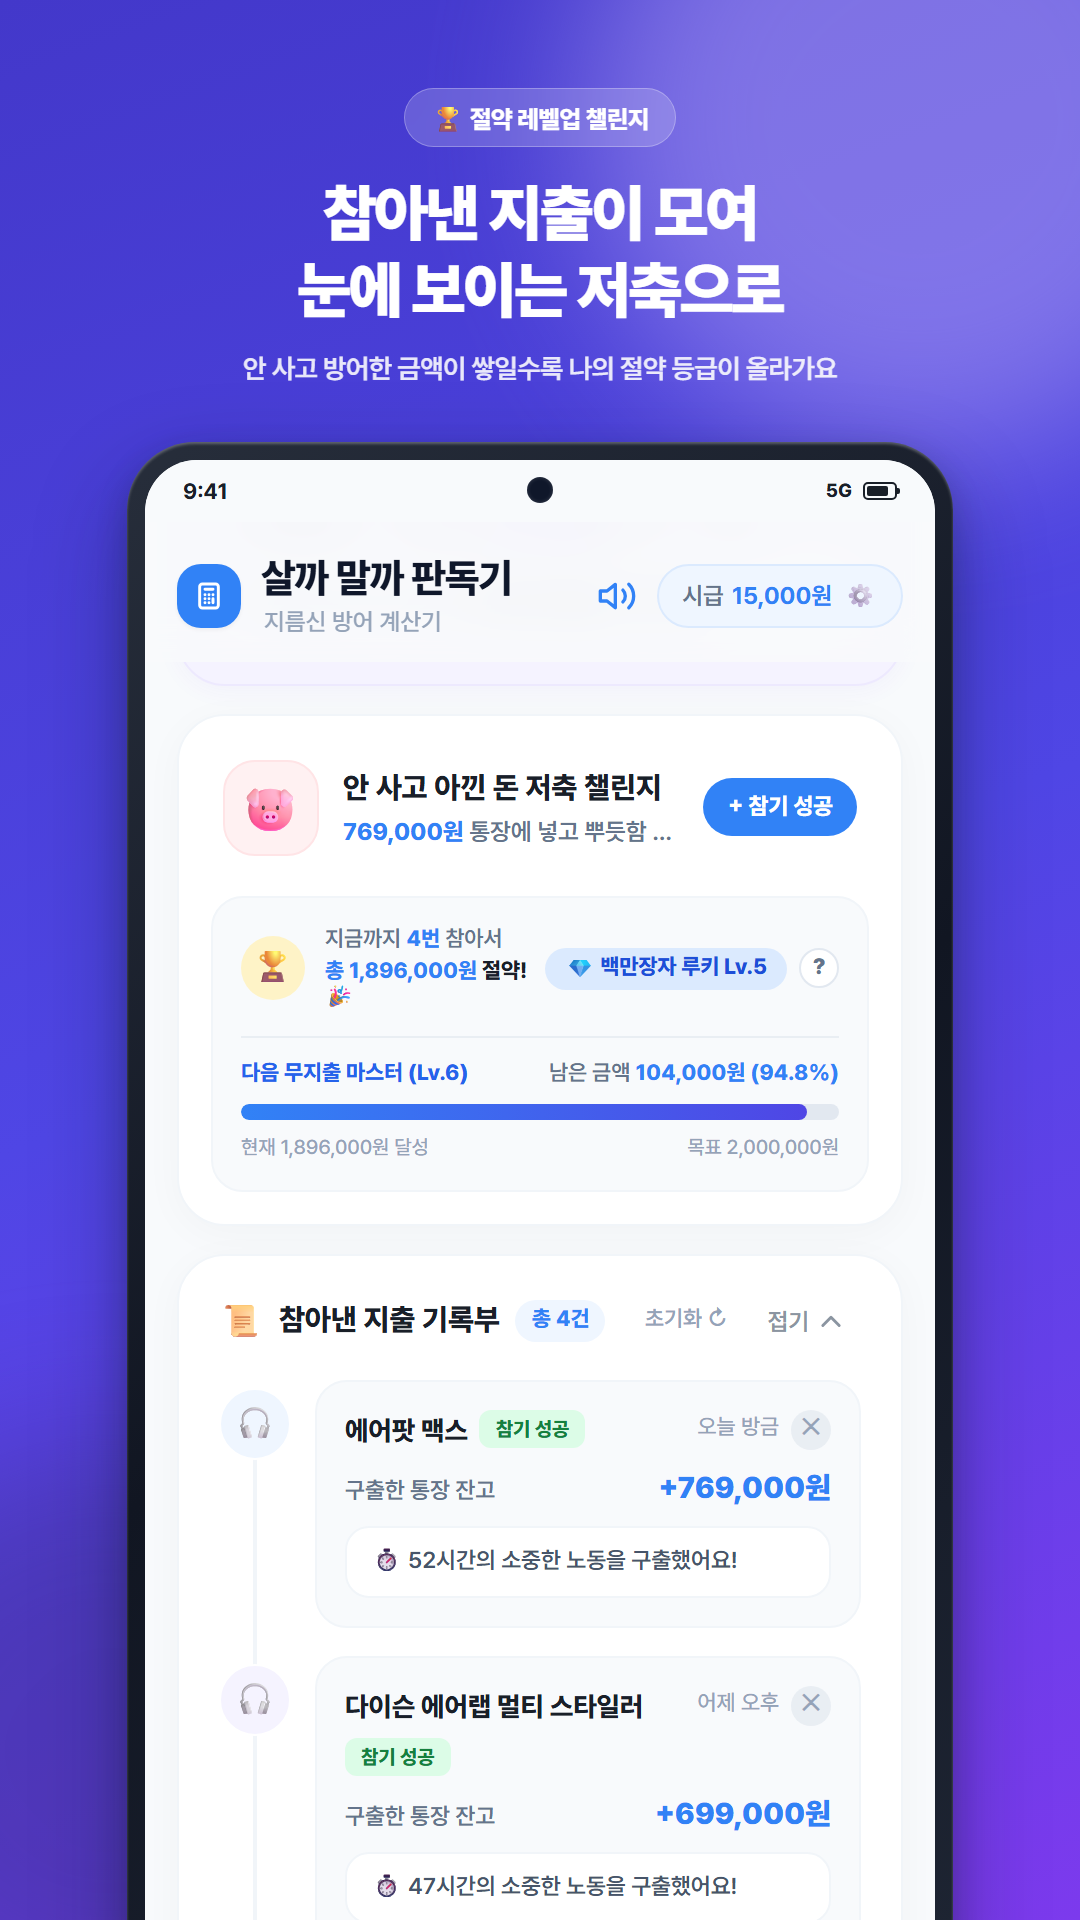
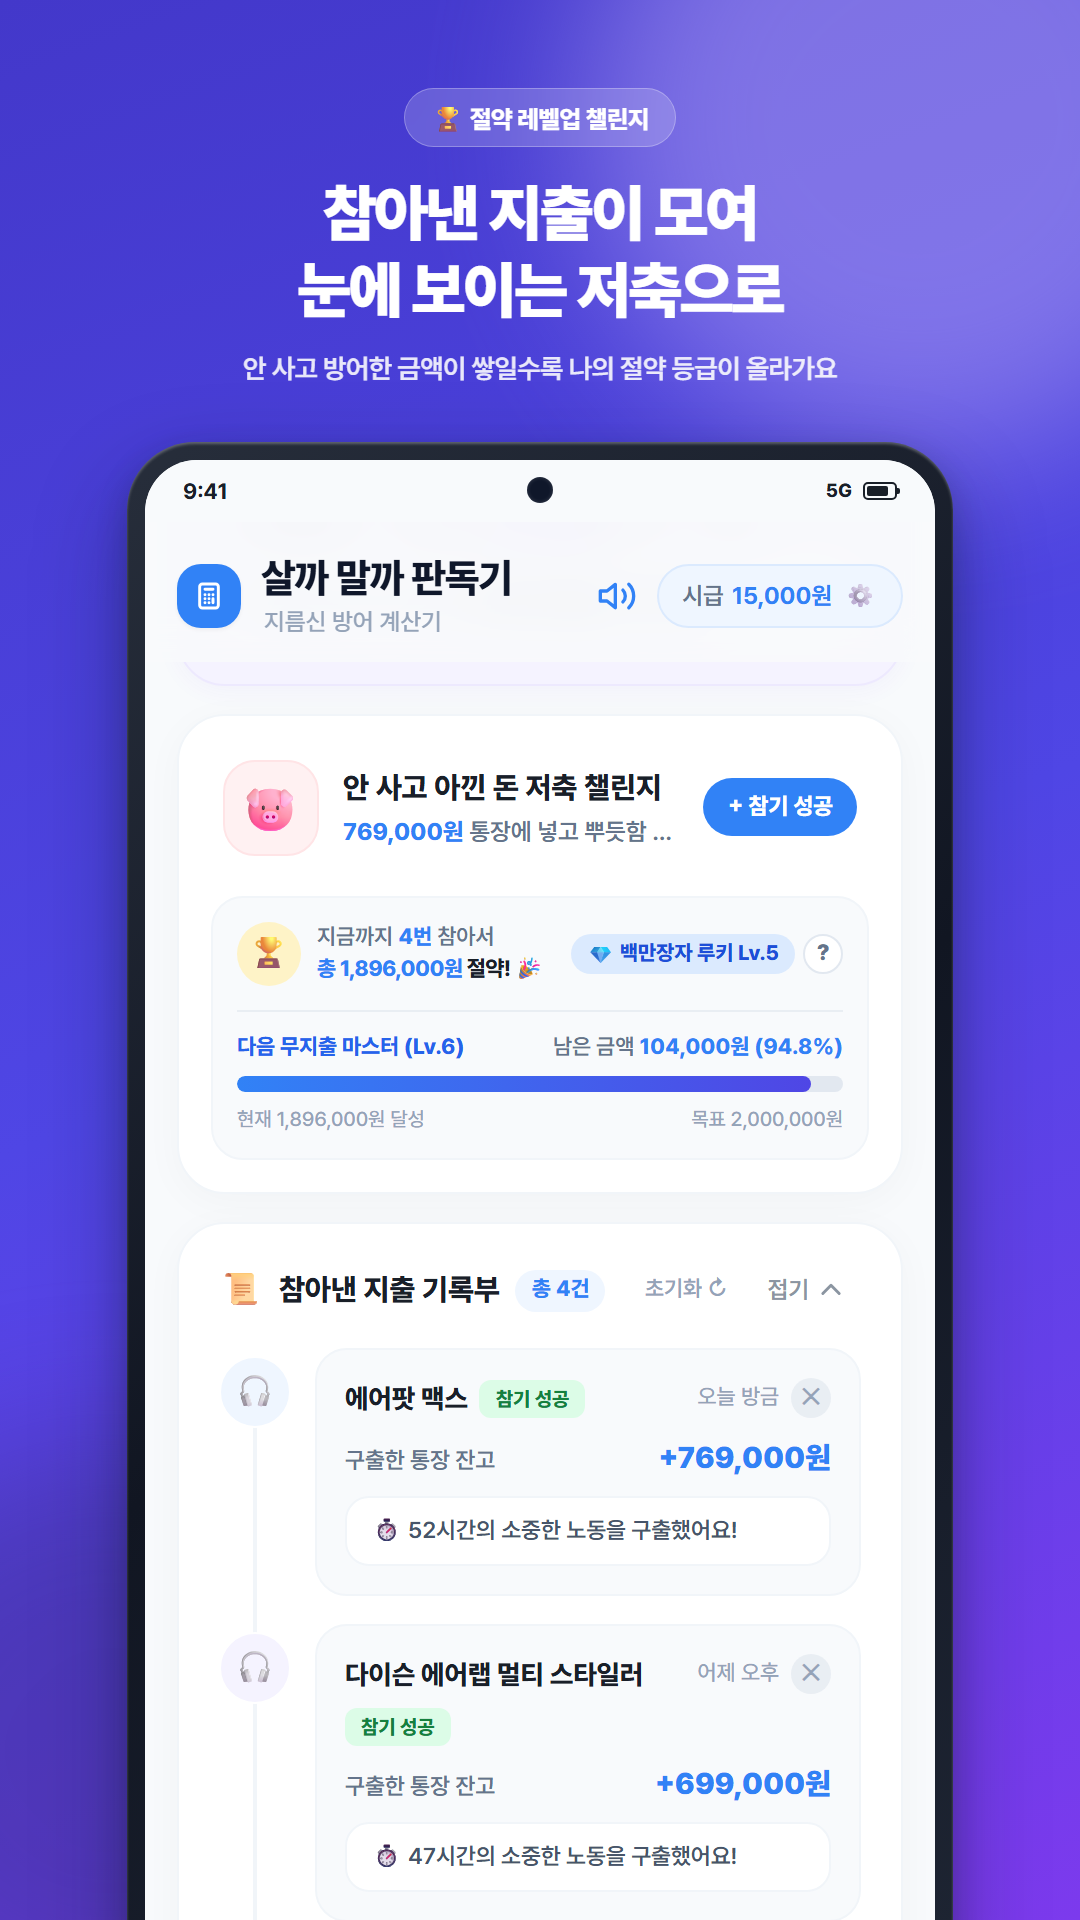
Keep saving summary emoji and poll headline on single lines and refresh screenshots 5 & 8

diff --git a/index.html b/index.html
@@ -764,29 +764,29 @@
           </div>
 
           <!-- 누적 현황 및 레벨 배지 UI 박스 -->
-          <div class="mt-3.5 bg-[#F8FAFC] rounded-2xl p-3.5 border border-slate-100">
+          <div class="mt-3.5 bg-[#F8FAFC] rounded-2xl p-3 border border-slate-100">
             <!-- 상단: 좌측 2줄 텍스트 (11px 동일 크기) & 우측 끝 슬림 알약 배지 -->
-            <div class="flex items-center justify-between gap-2">
-              <div class="flex items-center gap-2.5 min-w-0">
+            <div class="flex items-center justify-between gap-1.5">
+              <div class="flex items-center gap-2 min-w-0">
                 <div class="w-8 h-8 rounded-full bg-[#FEF3C7] flex items-center justify-center text-[16px] shrink-0">
                   🏆
                 </div>
-                <div class="leading-tight">
-                  <p class="text-[11px] font-semibold text-[#64748B]">
+                <div class="leading-tight min-w-0">
+                  <p class="text-[11px] font-semibold text-[#64748B] whitespace-nowrap">
                     지금까지 <span id="savedCountText" class="text-[#3182F6] font-extrabold">0번</span> 참아서
                   </p>
-                  <p class="text-[11px] font-extrabold text-[#191F28] mt-0.5">
+                  <p class="text-[11px] font-extrabold text-[#191F28] mt-0.5 whitespace-nowrap tracking-tight">
                     <span class="text-[#3182F6]">총 <span id="totalSavedAmountText">0원</span></span> 절약! 🎉
                   </p>
                 </div>
               </div>
 
-              <div class="flex items-center gap-1.5 shrink-0">
+              <div class="flex items-center gap-1 shrink-0">
                 <button
                   id="levelBadgeBtn"
                   type="button"
                   title="클릭하여 내 절약 레벨 인증 카드 보기"
-                  class="text-[11px] px-2.5 py-0.5 rounded-full bg-[#DBEAFE] hover:bg-[#BFDBFE] active:scale-95 text-[#1D4ED8] font-extrabold whitespace-nowrap transition-all shrink-0 shadow-2xs cursor-pointer"
+                  class="text-[10.5px] px-2 py-0.5 rounded-full bg-[#DBEAFE] hover:bg-[#BFDBFE] active:scale-95 text-[#1D4ED8] font-extrabold whitespace-nowrap transition-all shrink-0 shadow-2xs cursor-pointer"
                 >
                   🌱 절약 입문자 Lv.1
                 </button>
@@ -930,15 +930,15 @@
 
       <div class="p-4 space-y-3.5 flex-1">
         <!-- 상단 SOS 타이틀 카드 -->
-        <section class="bg-white rounded-3xl p-5 shadow-[0_4px_20px_rgba(0,0,0,0.03)] border border-slate-100">
-          <div class="flex items-center justify-between gap-3">
+        <section class="bg-white rounded-3xl px-4 py-5 shadow-[0_4px_20px_rgba(0,0,0,0.03)] border border-slate-100">
+          <div class="flex items-center justify-between gap-2">
             <div class="min-w-0 flex-1">
-              <span class="inline-flex items-center gap-1 bg-rose-50 text-rose-600 border border-rose-200/70 text-[11px] font-extrabold px-2.5 py-1 rounded-full mb-2.5">
+              <span class="inline-flex items-center gap-1 bg-rose-50 text-rose-600 border border-rose-200/70 text-[11px] font-extrabold px-2.5 py-1 rounded-full mb-2.5 whitespace-nowrap">
                 🆘 살까 말까 고민 중인 SOS 도착!
               </span>
-              <h3 class="text-[20px] sm:text-[21px] font-black text-[#191F28] leading-snug">
-                이거 진짜 살까 말까?<br />
-                <span class="text-[#3182F6]">내 통장 운명을 정해줘!</span>
+              <h3 class="text-[17px] sm:text-[19px] font-black text-[#191F28] leading-snug tracking-[-0.03em]">
+                <span class="whitespace-nowrap">이거 진짜 살까 말까?</span><br />
+                <span class="text-[#3182F6] whitespace-nowrap">내 통장 운명을 정해줘!</span>
               </h3>
             </div>
 
